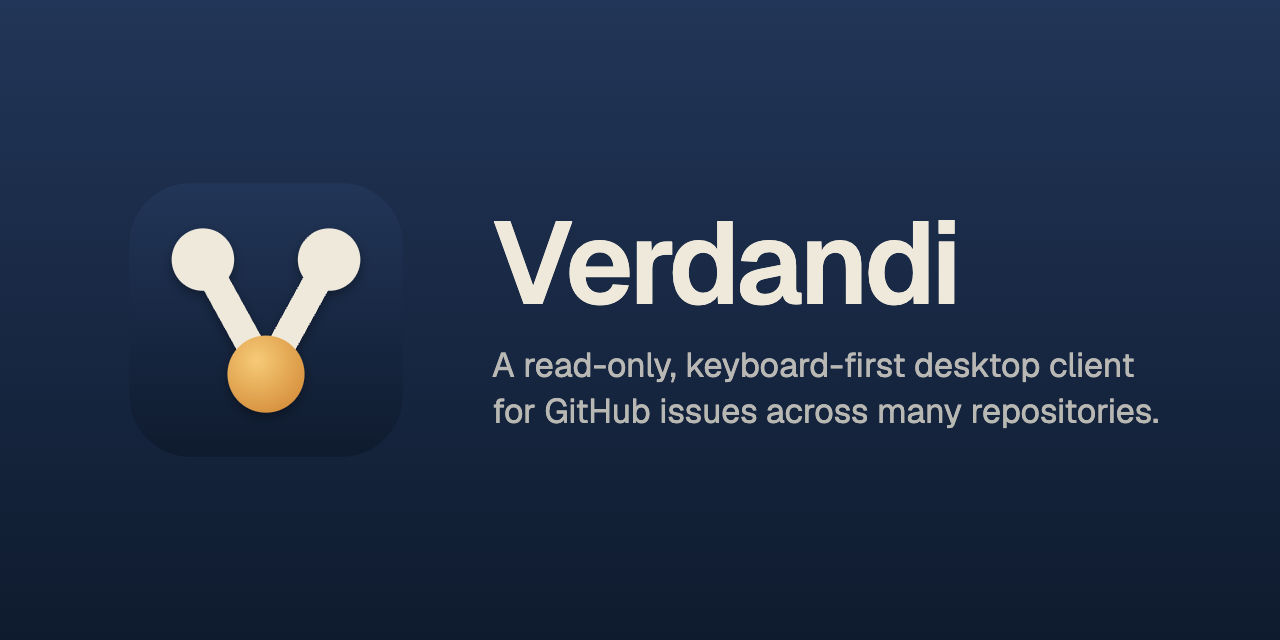
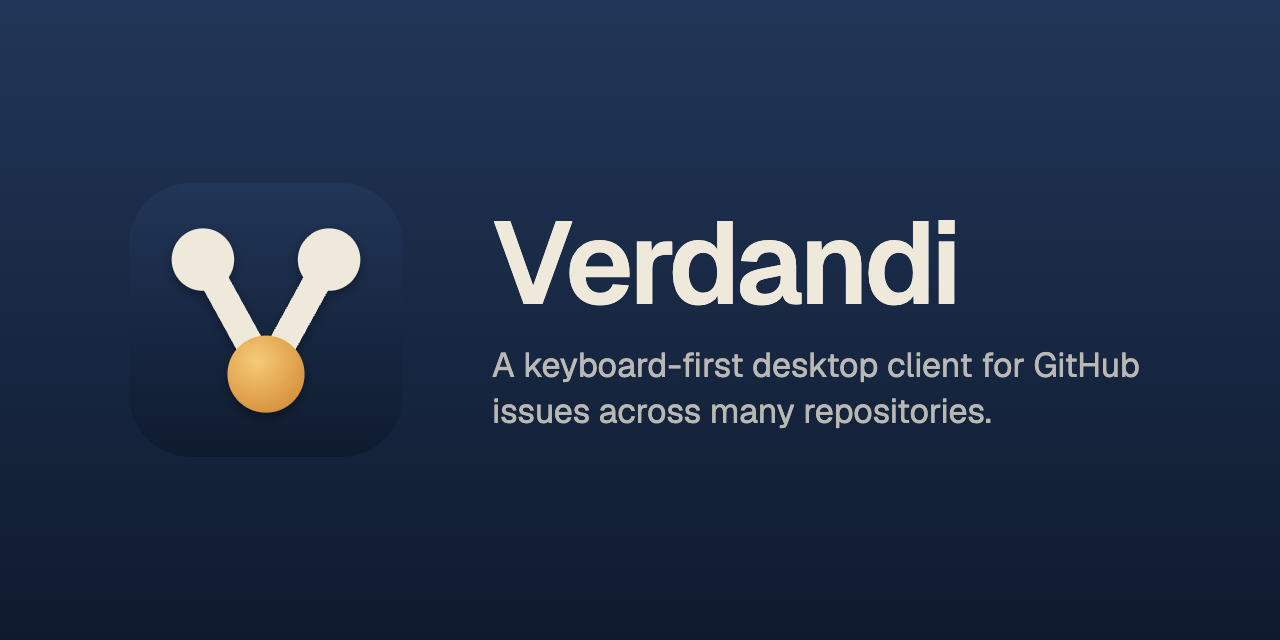
Stop calling Verdandi read-only in its descriptions
It is read-only today, but may not stay so. The README, the desktop
package, the social preview and the repository's description now leave it
out; the social preview is rendered again.

Claude-Session: https://claude.ai/code/session_013zBbhGEuAGVC4rsznxnnPs

Changed region(s): [[0.4062, 0.5312, 0.9062, 0.5938], [0.375, 0.625, 0.9062, 0.6875]]

diff --git a/README.md b/README.md
@@ -2,7 +2,7 @@
 
 <h1 align="center">Verdandi</h1>
 
-A read-only, keyboard-first desktop client for GitHub issues across many repositories, focused on how issues relate: sub-issue hierarchies and blocking relationships that cross repository boundaries. Vocabulary is in [`CONTEXT.md`](CONTEXT.md), decisions in [`docs/adr/`](docs/adr/).
+A keyboard-first desktop client for GitHub issues across many repositories, focused on how issues relate: sub-issue hierarchies and blocking relationships that cross repository boundaries. Vocabulary is in [`CONTEXT.md`](CONTEXT.md), decisions in [`docs/adr/`](docs/adr/).
 
 ## Prerequisites
 
